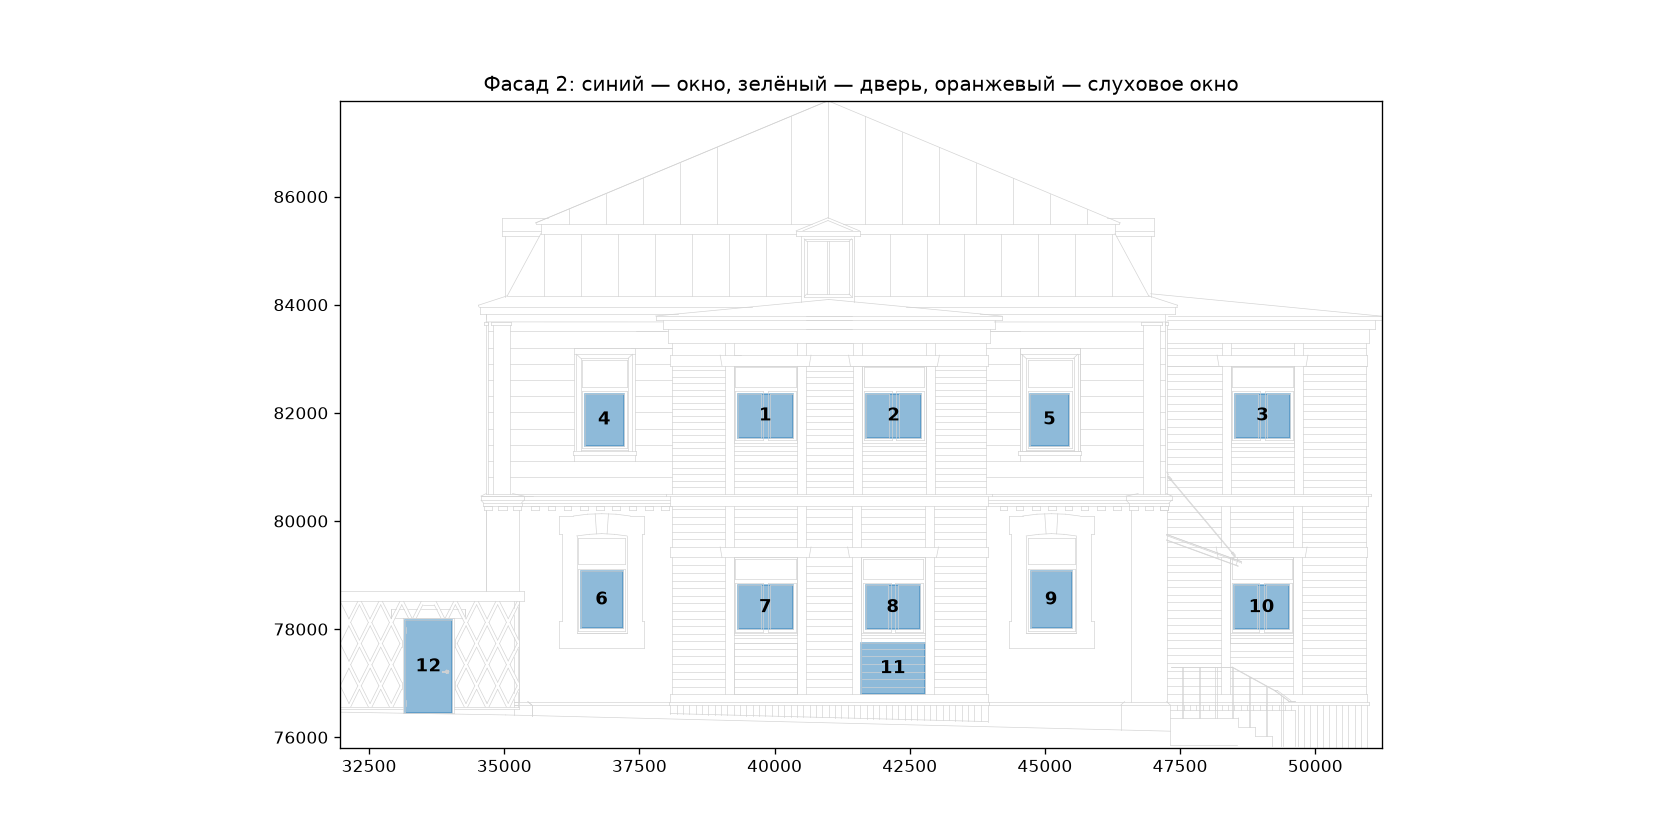
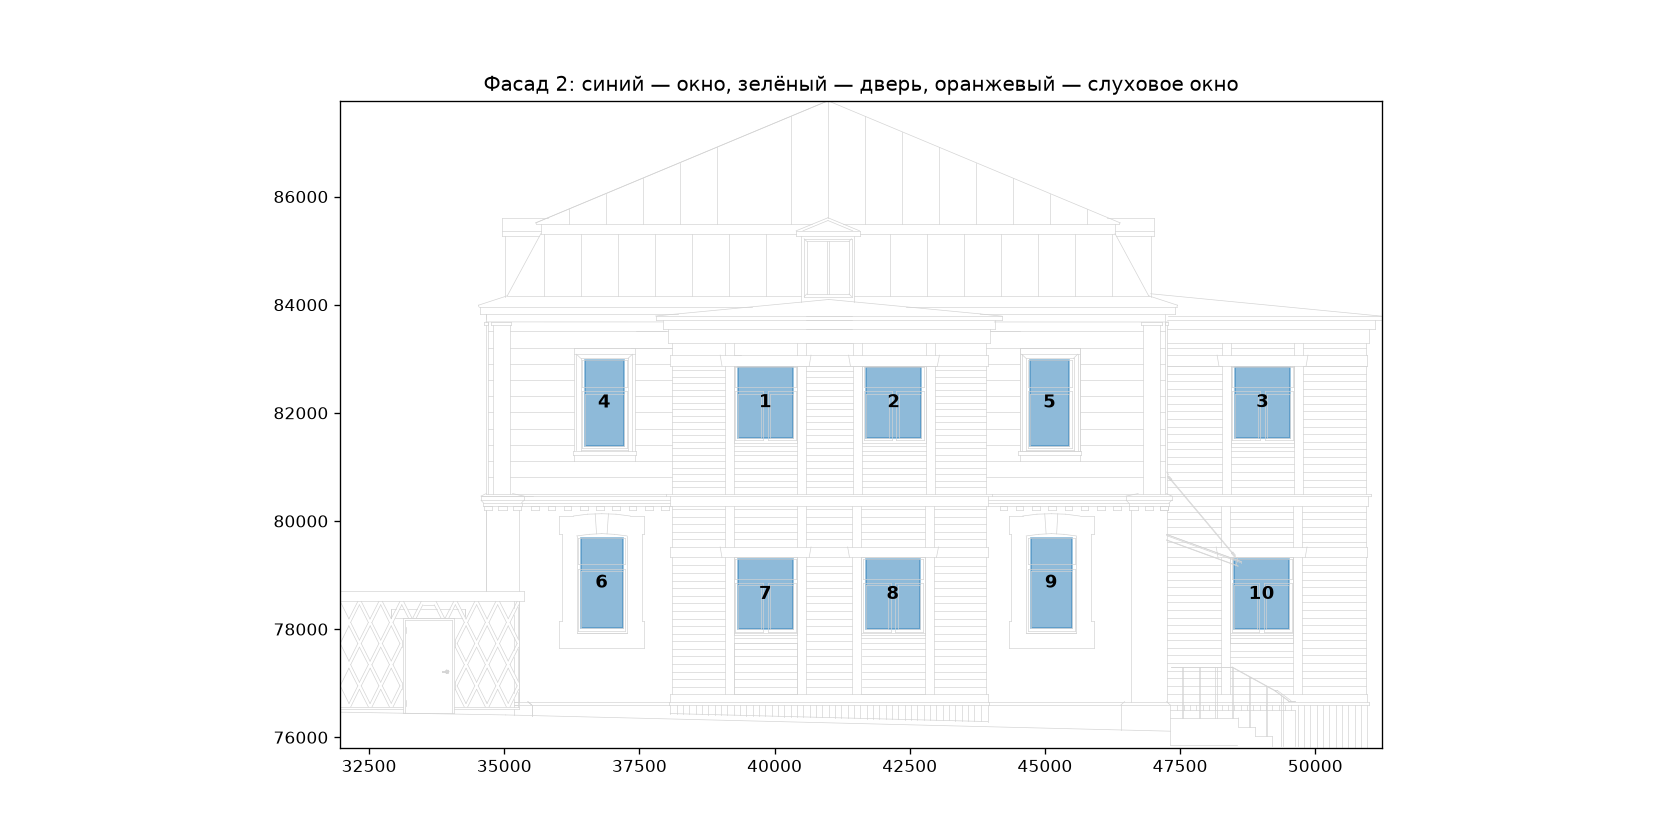
Поиск окон: проверка рамы, F1 90%, журнал экспериментов

diff --git a/README.md b/README.md
@@ -1,2 +1,17 @@
 # НПМ-генератор для АГР
 Автоматическая сборка низкополигональных моделей зданий по исходным данным заказчика.
+
+
+## Журнал экспериментов: поиск окон (project_01)
+
+Эталон: `windows_checked.json`, 70 проёмов, проверено специалистом.
+
+| # | Изменение | Precision | Recall | F1 | Решение |
+|---|---|---|---|---|---|
+| 1 | Створки по линиям рам + группировка | 82% | 87% | 85% | база |
+| 2 | + отсев вытянутых створок (фальцы) + фрамуги | 83% | 90% | 86% | оставить |
+| 3 | + окно из одной створки должно иметь что-то внутри | — | — | — | отказ: polygonize даёт мозаику, ломает все одиночные окна |
+| 4 | + окно из одной створки должно быть в раме (10–300 мм) | 94% | 86% | 90% | оставить |
+| 5 | допуск рамы 5–500 мм | 94% | 86% | 90% | отказ: без изменений, строже лучше |
+
+Остаток: 4 лишних (кровля на фасаде 4, блоки на фасаде 5), 10 пропущенных (слуховые окна, одиночные проёмы без рамы).
